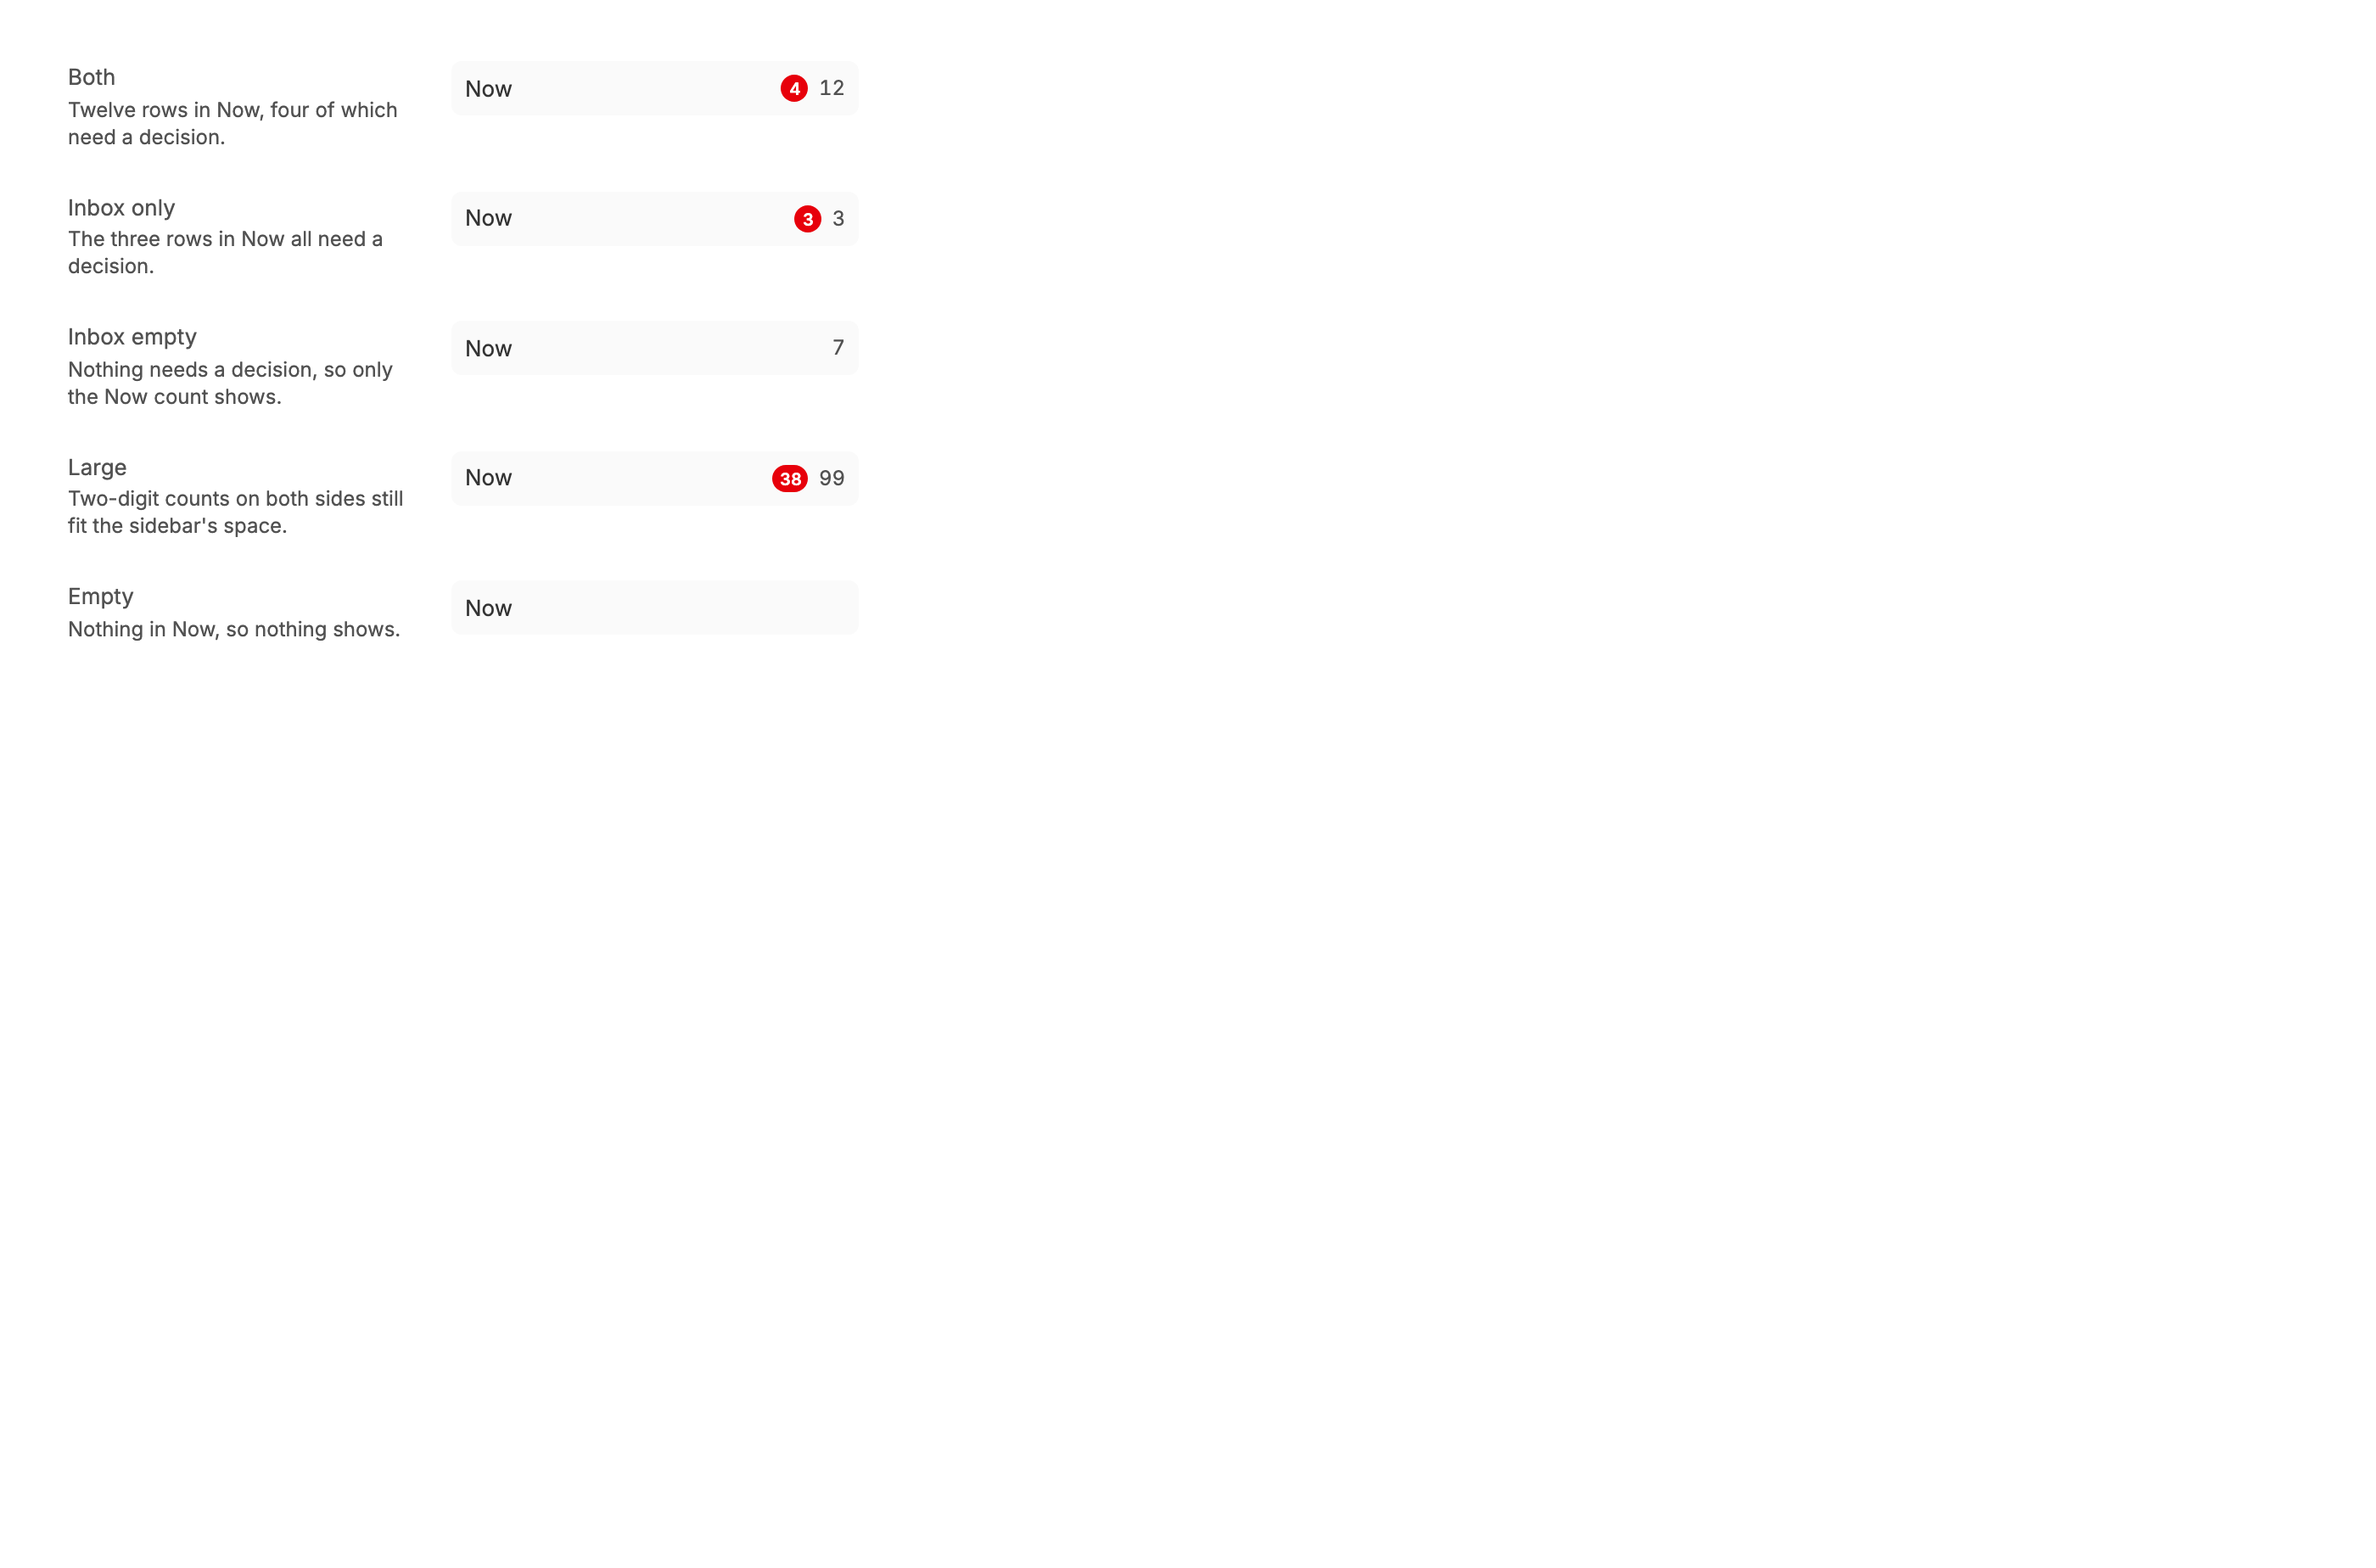
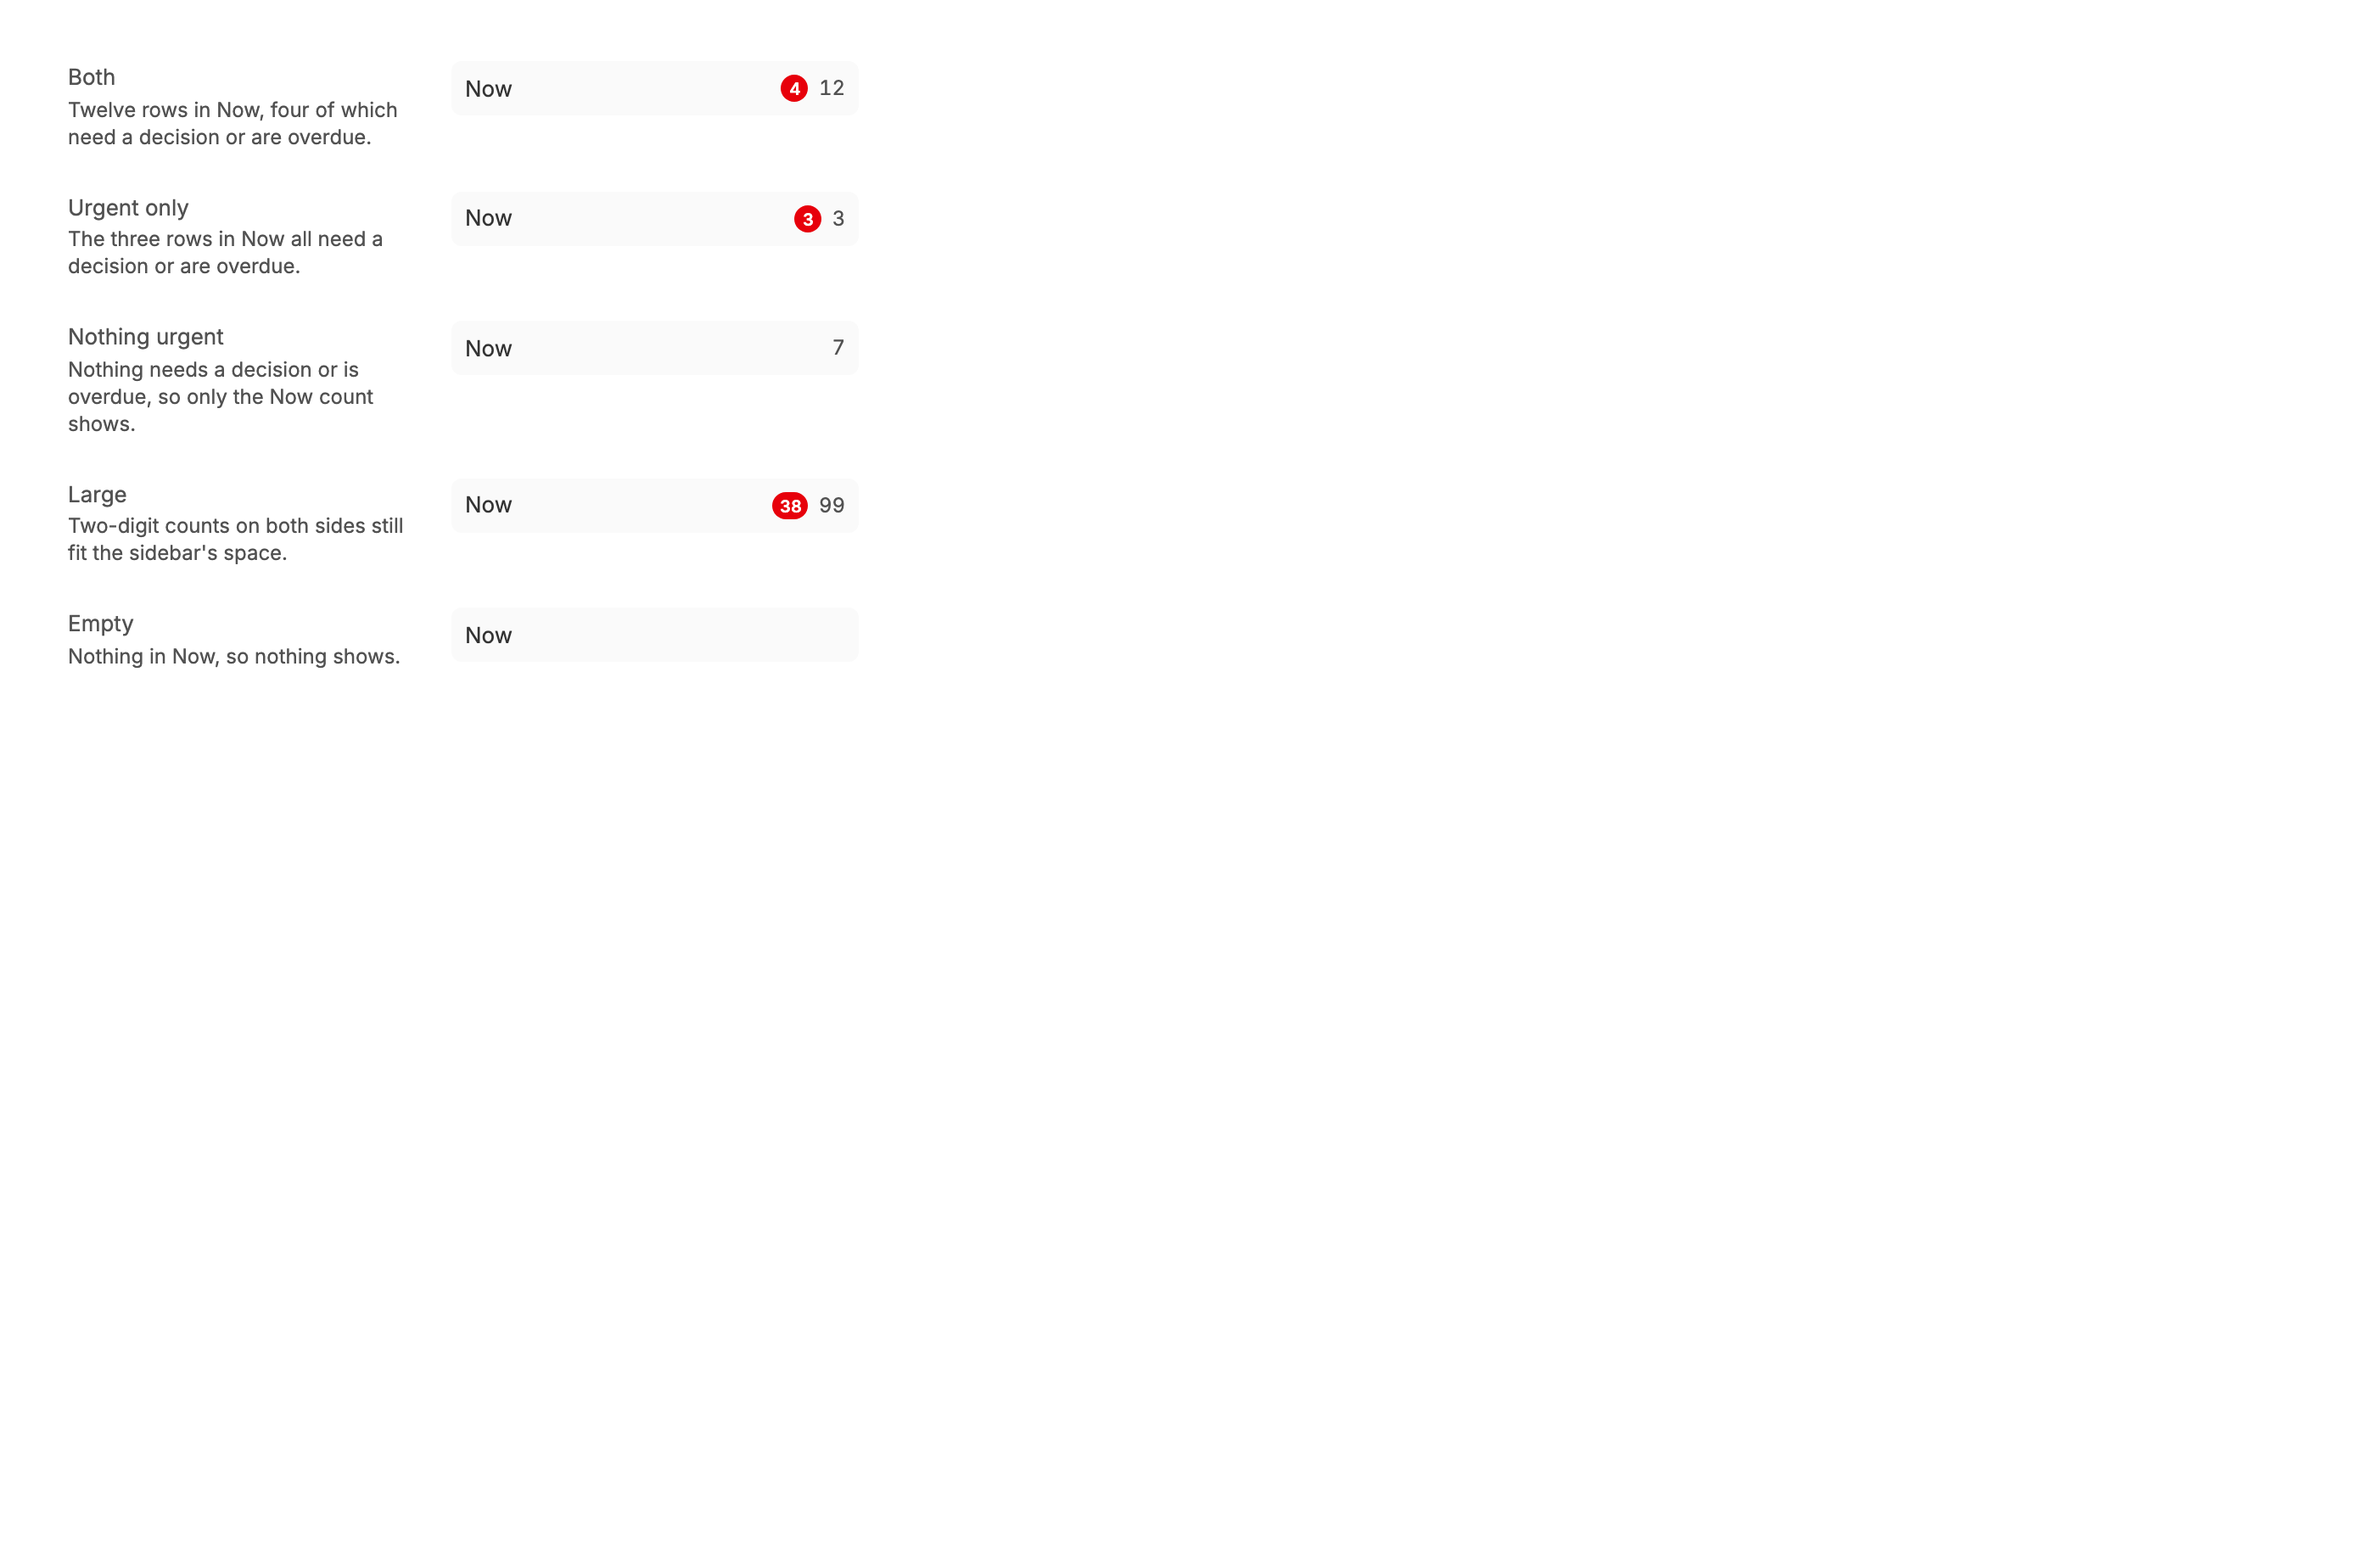
39fb05f Count overdue rows in Now's red sidebar badge
danielbachhuber/bb-plugins@39fb05f978f51a20b61caa697fbaad50b08f513d

Captured with uncommitted changes in the bb-plugins checkout.

diff --git a/now/README.md b/now/README.md
@@ -66,6 +66,6 @@ On a task with no due date and a deadline that has passed, Postpone moves the de
 
 ### Default
 
-The counts beside Now in the sidebar: what needs a decision in a red circle, then every row in the Now section, as its tab counts them.
+The counts beside Now in the sidebar: what needs a decision or is overdue in a red circle, then every row in the Now section, as its tab counts them.
 
 ![Default](sidebar-counts--default.png)
